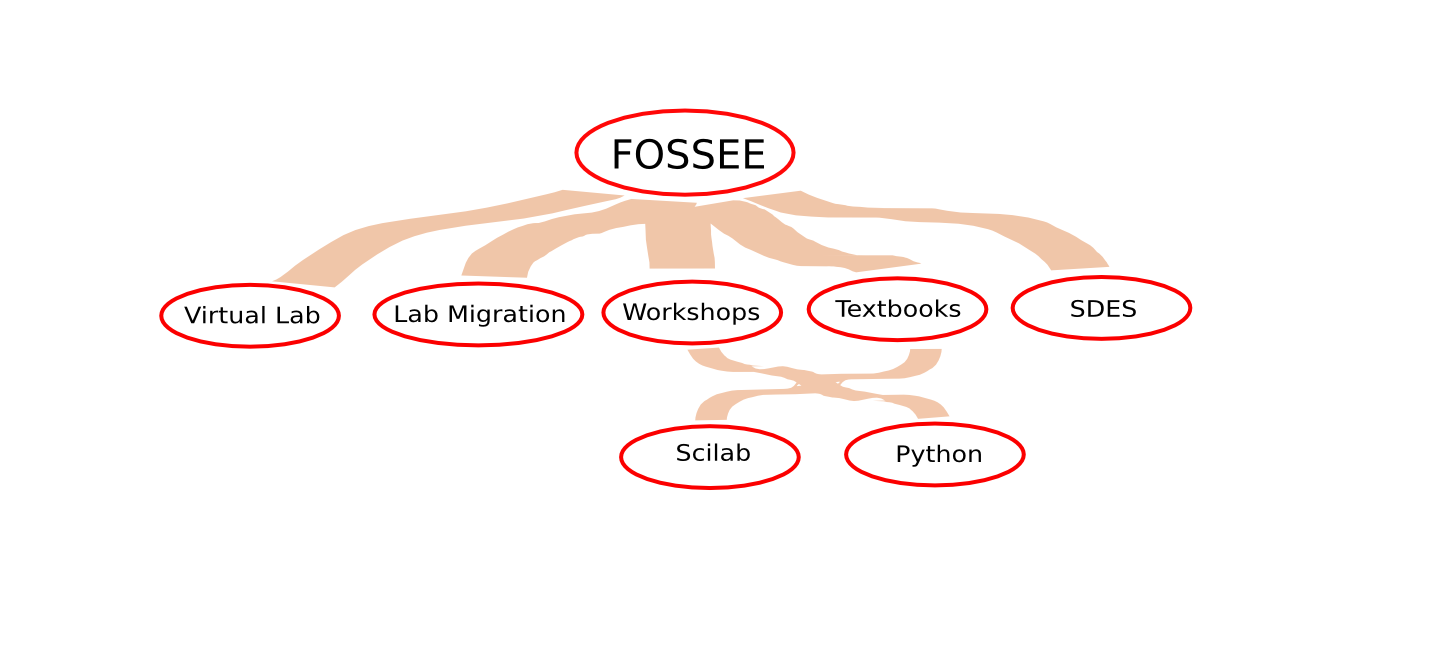
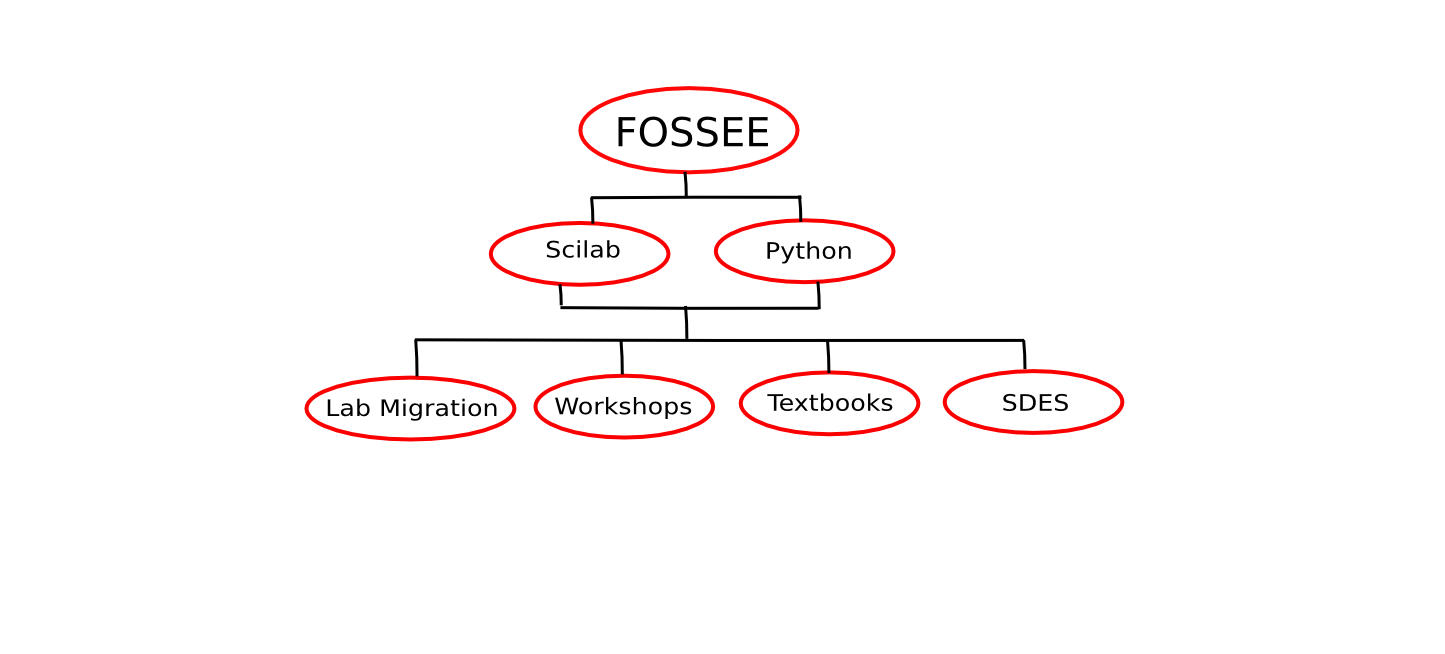
Changes to diagrams

diff --git a/presentation.tex b/presentation.tex
@@ -58,7 +58,7 @@ Education}
 \begin{frame}
 \frametitle{FOSS}
 \begin{definition}
-\alert{FOSS} stands for Free and Open-source Software
+\alert{FOSS} stands for Free and Open Source Software
 \end{definition}
 \end{frame}
 
@@ -85,9 +85,12 @@ Education}
 \item Private Industries \pause
 \item Individual User \pause
 \end{enumerate}
-\begin{block}{FOSS for everyone} \pause
-FOSS is for anyone who uses Computer to get things done quickly and efficiently
-\end{block}
+%\begin{block}{FOSS for everyone} \pause
+%FOSS is for anyone who uses Computer to get things done quickly and efficiently
+%\end{block}
+\begin{center}
+FOSS is for everyone....
+\end{center}
 \end{frame}
 
 
@@ -97,7 +100,7 @@ FOSS is for anyone who uses Computer to get things done quickly and efficiently
 \begin{frame}
 \frametitle{FOSSEE}
 \begin{block}{Stands for}
-Free and Open source Software for Science and Engineering
+Free and Open-source Software for Science and Engineering
 Education \pause
 \end{block}
 \begin{center}
@@ -136,9 +139,9 @@ Education \pause
 \item Prof. Madhu Belur \\
 {\footnotesize Electrical Engineering Department} \pause
 \item Prof. Kannan Moudgalya \\
-{\footnotesize Chemical Engineering Department} 
+{\footnotesize Chemical Engineering Department}  \pause
 \item Prof. Mani Bhushan \\
-{\footnotesize Chemical Engineering Department}  \pause 
+{\footnotesize Chemical Engineering Department}  
 \end{itemize}
 \end{frame}
 
@@ -164,8 +167,8 @@ Education \pause
 \item Scilab family \pause
    \begin{itemize}
    \item Scilab
-   \item Single Board Heater System
-   \item Xcos \pause
+   \item Xcos 
+   \item Single Board Heater System \pause
    \end{itemize}
 \item Other FOSS actively pursued/used \pause
    \begin{itemize}
@@ -173,6 +176,7 @@ Education \pause
    \item KiCAD
    \item OpenFOAM
    \item Ngspice
+   \item Virtual Labs
    \item \LaTeX % \Latex \Latex \pause
    \end{itemize}
 \end{itemize}
@@ -199,29 +203,29 @@ Software Development Techniques for Scientists and Engineers
 \end{block}
 \begin{itemize}
 \item Equips a student with various FOSS tools for curricular purposes \pause
-\item For students of BE/BTech and ME/MTech programmes \pause
 \item SDES/Python course currently in curriculum of IIT Bombay and BHU Varanasi \pause
-\item SDES Coordinator's workshop was held in September 2011 \pause
+\item Thousand Teacher's Program will be conducted for faculty of various science and engineering colleges \pause
+\item To motivate them to include SDES course in their curriculum
 \end{itemize}
 \end{frame}
 
-\begin{frame}
-\frametitle{WORKSHOP}
-\framesubtitle{Teacher's training Workshop}
-\begin{itemize}
-\item Introduce the faculty of various science and engineering colleges to advantages of FOSS. \pause
-\item Motivate them to include SDES course in their curriculum. \pause
-\item Conducted in 2 parts
-\begin{enumerate}
-\item At IIT \pause
-\item Through e-learning tool A-VIEW  \pause
-\end{enumerate}
-\end{itemize}
+%\begin{frame}
+%\frametitle{WORKSHOP}
+%\framesubtitle{Teacher's training Workshop}
+%\begin{itemize}
+%\item Introduce the faculty of various science and engineering colleges to advantages of FOSS. \pause
+%\item Motivate them to include SDES course in their curriculum. \pause
+%\item Conducted in 2 parts
+%\begin{enumerate}
+%\item At IIT \pause
+%\item Through e-learning tool A-VIEW  \pause
+%\end{enumerate}
+%\end{itemize}
 
-\begin{block}{Large Picture}
-From all over India, over {\Large 1000} Teacher's will be trained.
-\end{block}
-\end{frame}
+%\begin{block}{Large Picture}
+%From all over India, over {\Large 1000} Teacher's will be trained.
+%\end{block}
+%\end{frame}
 
 \subsection{Workshops}
 \begin{frame}
@@ -240,7 +244,6 @@ From all over India, over {\Large 1000} Teacher's will be trained.
 \item Python \pause
 \item \LaTeX \pause
 \item Version Control \pause
-\item Linux utilities \pause
 \end{itemize}
 \end{block}
 \column{.5\textwidth}
@@ -263,19 +266,32 @@ http://www.spoken-tutorial.org
 \begin{frame}
 \frametitle{TextBook Companion Project}
 \begin{block}{Goal}
-Create a repository of reference material in the form of solved examples for Scientific Computing with Open Source tools.
+Create a repository of reference material in the form of solved examples from textbooks for Scientific Computing with Open Source tools \pause
+\end{block}
+\begin{block}{About}
+\begin{itemize}
+	\item Community participation \pause
+    \item Over 150 science/engineering textbooks \pause
+    \item Open-source code for solved examples \pause
+    \item \alert{Institute-wide participation}
+\end{itemize}
 \end{block}
 \end{frame}
 
 \begin{frame}
-\frametitle{How it works?}
-\begin{figure}
-\centering
-\mbox{
-\subfigure{\includegraphics[width=1.5in,height=1.5in]{1.png}} \pause
-\subfigure{\includegraphics[width=1.5in,height=1.5in]{2.png}} \pause
-\subfigure{\includegraphics[width=1.5in,height=1.5in]{3.png}}} 
-\end{figure}
+\frametitle{Textbook Companions}
+\begin{itemize}
+\item Document containing all solved examples in a textbook \pause 
+\item 120 students across India participated \pause
+\item Respective teachers : domain know-how and verification \pause
+\item FOSSEE provides interface, support, review and coordination
+\end{itemize}
+%\begin{figure}
+%\mbox{
+%\subfigure{\includegraphics[width=1.5in,height=1.5in]{1.png}} \pause
+%\subfigure{\includegraphics[width=1.5in,height=1.5in]{2.png}} \pause
+%\subfigure{\includegraphics[width=1.5in,height=1.5in]{3.png}}} 
+%\end{figure}
 \end{frame}
 
 \begin{frame}
@@ -285,7 +301,7 @@ Create a repository of reference material in the form of solved examples for Sci
 \end{center}
 \end{frame}
 
-\subsection{Achievements}
+\subsection{Achievements}	
 \begin{frame}
 \frametitle{Achievements}
 \small \bf
